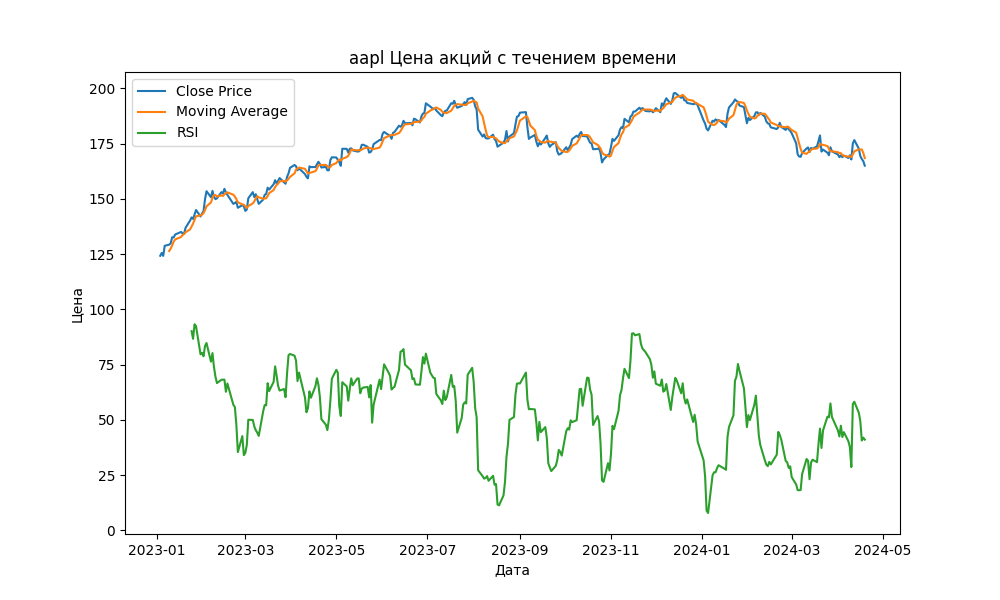
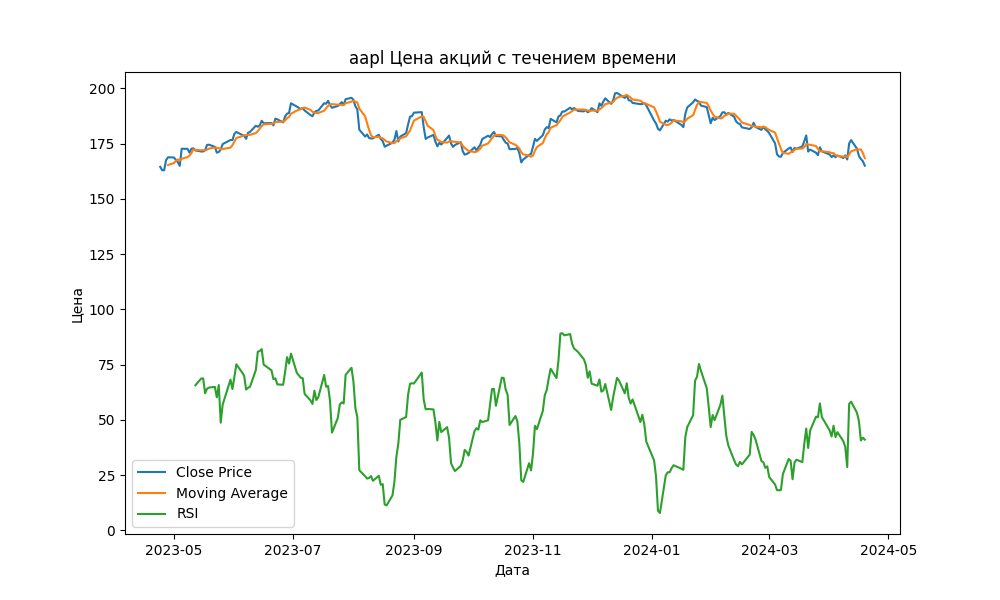
Задача №5. Реализовать функционал: Улучшенное управление временными периодами

diff --git a/Internship/sprint_01/task_05/main.py b/Internship/sprint_01/task_05/main.py
@@ -10,10 +10,12 @@ def main():
     print(
         "Общие периоды времени для данных о запасах включают: 1д, 5д, 1мес, 3мес, 6мес, 1г, 2г, 5г, 10л, с начала года, макс.")
 
+    period = ''
     ticker = input("Введите тикер акции (например, «AAPL» для Apple Inc):»")
-    date_start = input("Введите дату начала периода (для текущей даты, нажмите Enter): ")
+    date_start = input("Введите дату начала периода (для периода по умолчанию, нажмите Enter): ")
     date_end = input("Введите дату окончания периода (для текущей даты, нажмите Enter): ")
-    period = input("Введите период для данных (например, '1mo' для одного месяца или 1d, 5d, 1mo, 3mo, 6mo, 1y, 2y, 5y, 10y, ytd, max): ")
+    if date_start == '' and date_end == '':
+        period = input("Введите период для данных (например, '1mo' для одного месяца или 1d, 5d, 1mo, 3mo, 6mo, 1y, 2y, 5y, 10y, ytd, max): ")
     threshold = float(input("Введите порог для уведомления: "))
 
     # Fetch stock data

diff --git a/Internship/sprint_01/task_05/data_download.py b/Internship/sprint_01/task_05/data_download.py
@@ -30,14 +30,18 @@ def fetch_stock_data(ticker, period='1mo', date_start=None, date_end=None):
                       '10y': timedelta(days=3650),
                       'ytd': timedelta(days=365),
                       'max': timedelta(days=0)}
-
-    if period not in period_list:
-        raise ValueError('Период должен быть одним из следующих значений: 1d, 5d, 1mo, 3mo, 6mo, 1y, 2y, 5y, 10y, ytd, max')
+    # if period == '':
+    #     period = '1mo'
+    # if period not in period_list:
+    #     raise ValueError('Период должен быть одним из следующих значений: 1d, 5d, 1mo, 3mo, 6mo, 1y, 2y, 5y, 10y, ytd, max')
     stock = yf.Ticker(ticker)
     if date_start is None or date_start == '':
         date_start = (datetime.now() - dict_timedelta[period]).strftime("%Y-%m-%d")
     if date_end is None or date_end == '':
         date_end = datetime.now().strftime("%Y-%m-%d")
+    if date_start > date_end:
+        raise ValueError('Дата окончания периода должна быть больше даты начала периода')
+
     data = stock.history(period=period, start=date_start, end=date_end)
     return data
 
